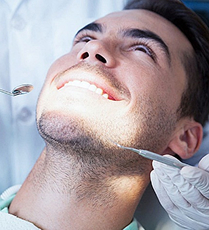
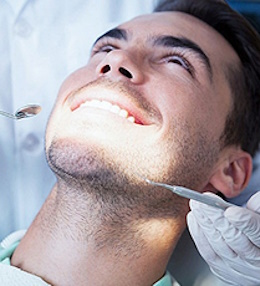
почти закончил под мобилку

diff --git a/index.html b/index.html
@@ -562,30 +562,38 @@
 			  <ul class="useful__list">
 				  <li class="useful__item">
 					  <div class="useful__wrap">
-						    <h3 class="useful__subtitle">
-							    Статьи
-						    </h3>
-						    <div class="useful__viewport">
-								  <ul class="useful__sublist">
-									  <li class="useful__subitem">
-										  <img src="src/img/useful/dental-4-1.jpg" alt="Статья о стоматологии" class="useful__img">
-										  <p class="useful__text">Зуб даю: как сходить к стоматологу и не потерять здоровье</p>
-										  <p class="useful__date">22.03.2026</p>
-									  </li>
-									  <li class="useful__subitem">
-										  <img src="src/img/useful/dental-4-1.jpg" alt="Статья о стоматологии" class="useful__img">
-										  <p class="useful__text">Зуб даю: как сходить к стоматологу и не потерять здоровье</p>
-										  <p class="useful__date">22.03.2026</p>
-									  </li>
-									  <li class="useful__subitem">
-										  <img src="src/img/useful/dental-4-1.jpg" alt="Статья о стоматологии" class="useful__img">
-										  <p class="useful__text">Зуб даю: как сходить к стоматологу и не потерять здоровье</p>
-										  <p class="useful__date">22.03.2026</p>
-									  </li>
-								  </ul>
+						    <div class="useful__slider">
+							    <div class="useful__container">
+								    <ul class="useful__sublist">
+										  <li class="useful__subitem">
+											  <h3 class="useful__subtitle useful__subtitle--red">
+												  Статьи
+											  </h3>
+											  <div class="useful__img-wrap">
+												  <img src="src/img/useful/dental-4-1.jpg" alt="Статья о стоматологии" class="useful__img">
+											  </div>
+											  <p class="useful__text">Зуб даю: как сходить к стоматологу и не потерять здоровье</p>
+											  <p class="useful__date">22.03.2026</p>
+										  </li>
+										  <li class="useful__subitem">
+											  <div class="useful__img-wrap">
+												  <img src="src/img/useful/dental-4-1.jpg" alt="Статья о стоматологии" class="useful__img">
+											  </div>
+											  <p class="useful__text">Зуб даю: как сходить к стоматологу и не потерять здоровье</p>
+											  <p class="useful__date">22.03.2026</p>
+										  </li>
+										  <li class="useful__subitem">
+											  <div class="useful__img-wrap">
+												  <img src="src/img/useful/dental-4-1.jpg" alt="Статья о стоматологии" class="useful__img">
+											  </div>
+											  <p class="useful__text">Зуб даю: как сходить к стоматологу и не потерять здоровье</p>
+											  <p class="useful__date">22.03.2026</p>
+										  </li>
+								    </ul>
+							    </div>
 						    </div>
 						    <button class="useful__btn">
-							    <svg width="14" height="14" viewBox="0 0 14 14" xmlns="http://www.w3.org/2000/svg">
+							    <svg width="24" height="24" viewBox="0 0 14 14" xmlns="http://www.w3.org/2000/svg">
 								    <path d="M7.72917 7L6.05062 5.17271C5.90771 5.02833 5.90771 4.79427 6.05062 4.64917C6.19354 4.50552 6.42615 4.50552 6.56833 4.64917L8.6151 6.7375C8.75802 6.8826 8.75802 7.11667 8.6151 7.26031L6.56833 9.34865C6.42615 9.49375 6.19354 9.49302 6.05062 9.34865C5.90771 9.205 5.90771 8.97094 6.05062 8.82583L7.72917 7ZM7 0C10.866 0 14 3.13396 14 7C14 10.8668 10.866 14 7 14C3.13396 14 0 10.8668 0 7C0 3.13396 3.13396 0 7 0ZM7 13.0915C10.3636 13.0915 13.0915 10.3644 13.0915 7C13.0915 3.63563 10.3636 0.908542 7 0.908542C3.6349 0.908542 0.908542 3.63563 0.908542 7C0.907812 10.3644 3.6349 13.0915 7 13.0915Z" fill="white" fill-opacity="0.7"/>
 							    </svg>
 						    </button>
@@ -593,30 +601,38 @@
 				  </li>
 				  <li class="useful__item">
 					  <div class="useful__wrap">
-						  <h3 class="useful__subtitle">
-							  События
-						  </h3>
-						  <div class="useful__viewport">
-							  <ul class="useful__sublist">
+						  <div class="useful__slider">
+							  <div class="useful__container">
+							    <ul class="useful__sublist">
 								  <li class="useful__subitem">
-									  <img src="src/img/useful/dental-5-1.jpg" alt="Статья о стоматологии" class="useful__img">
+									  <h3 class="useful__subtitle useful__subtitle--green">
+										  События
+									  </h3>
+									  <div class="useful__img-wrap">
+										  <img src="src/img/useful/dental-5-1.jpg" alt="Статья о стоматологии" class="useful__img">
+									  </div>
 									  <p class="useful__text">10 мифов о «разводе» в стоматологии: разоблачения и рекомендации</p>
 									  <p class="useful__date">22.03.2026</p>
 								  </li>
 								  <li class="useful__subitem">
-									  <img src="src/img/useful/dental-5-1.jpg" alt="Статья о стоматологии" class="useful__img">
+									  <div class="useful__img-wrap">
+										  <img src="src/img/useful/dental-5-1.jpg" alt="Статья о стоматологии" class="useful__img">
+									  </div>
 									  <p class="useful__text">10 мифов о «разводе» в стоматологии: разоблачения и рекомендации</p>
 									  <p class="useful__date">22.03.2026</p>
 								  </li>
 								  <li class="useful__subitem">
-									  <img src="src/img/useful/dental-5-1.jpg" alt="Статья о стоматологии" class="useful__img">
+									  <div class="useful__img-wrap">
+										  <img src="src/img/useful/dental-5-1.jpg" alt="Статья о стоматологии" class="useful__img">
+									  </div>
 									  <p class="useful__text">10 мифов о «разводе» в стоматологии: разоблачения и рекомендации</p>
 									  <p class="useful__date">22.03.2026</p>
 								  </li>
 							  </ul>
+							  </div>
 						  </div>
 						  <button class="useful__btn">
-							  <svg width="14" height="14" viewBox="0 0 14 14" xmlns="http://www.w3.org/2000/svg">
+							  <svg width="24" height="24" viewBox="0 0 14 14" xmlns="http://www.w3.org/2000/svg">
 								  <path d="M7.72917 7L6.05062 5.17271C5.90771 5.02833 5.90771 4.79427 6.05062 4.64917C6.19354 4.50552 6.42615 4.50552 6.56833 4.64917L8.6151 6.7375C8.75802 6.8826 8.75802 7.11667 8.6151 7.26031L6.56833 9.34865C6.42615 9.49375 6.19354 9.49302 6.05062 9.34865C5.90771 9.205 5.90771 8.97094 6.05062 8.82583L7.72917 7ZM7 0C10.866 0 14 3.13396 14 7C14 10.8668 10.866 14 7 14C3.13396 14 0 10.8668 0 7C0 3.13396 3.13396 0 7 0ZM7 13.0915C10.3636 13.0915 13.0915 10.3644 13.0915 7C13.0915 3.63563 10.3636 0.908542 7 0.908542C3.6349 0.908542 0.908542 3.63563 0.908542 7C0.907812 10.3644 3.6349 13.0915 7 13.0915Z" fill="white" fill-opacity="0.7"/>
 							  </svg>
 						  </button>
@@ -624,30 +640,38 @@
 				  </li>
 				  <li class="useful__item">
 					  <div class="useful__wrap">
-						  <h3 class="useful__subtitle">
-							  Новости
-						  </h3>
-						  <div class="useful__viewport">
-							  <ul class="useful__sublist">
+						  <div class="useful__slider">
+							  <div class="useful__container">
+							    <ul class="useful__sublist">
 								  <li class="useful__subitem">
-									  <img src="src/img/useful/dental-6-1.jpg" alt="Статья о стоматологии" class="useful__img">
+									  <h3 class="useful__subtitle useful__subtitle--blue">
+										  Новости
+									  </h3>
+									  <div class="useful__img-wrap">
+										  <img src="src/img/useful/dental-6-1.jpg" alt="Статья о стоматологии" class="useful__img">
+									  </div>
 									  <p class="useful__text">Боль в зубе - почему нельзя тянуть с визитом к врачу?</p>
 									  <p class="useful__date">22.03.2026</p>
 								  </li>
 								  <li class="useful__subitem">
-									  <img src="src/img/useful/dental-6-1.jpg" alt="Статья о стоматологии" class="useful__img">
+									  <div class="useful__img-wrap">
+										  <img src="src/img/useful/dental-6-1.jpg" alt="Статья о стоматологии" class="useful__img">
+									  </div>
 									  <p class="useful__text">Боль в зубе - почему нельзя тянуть с визитом к врачу?</p>
 									  <p class="useful__date">22.03.2026</p>
 								  </li>
 								  <li class="useful__subitem">
-									  <img src="src/img/useful/dental-6-1.jpg" alt="Статья о стоматологии" class="useful__img">
+									  <div class="useful__img-wrap">
+										  <img src="src/img/useful/dental-6-1.jpg" alt="Статья о стоматологии" class="useful__img">
+									  </div>
 									  <p class="useful__text">Боль в зубе - почему нельзя тянуть с визитом к врачу?</p>
 									  <p class="useful__date">22.03.2026</p>
 								  </li>
 							  </ul>
+							  </div>
 						  </div>
 						  <button class="useful__btn">
-							  <svg width="14" height="14" viewBox="0 0 14 14" xmlns="http://www.w3.org/2000/svg">
+							  <svg width="24" height="24" viewBox="0 0 14 14" xmlns="http://www.w3.org/2000/svg">
 								  <path d="M7.72917 7L6.05062 5.17271C5.90771 5.02833 5.90771 4.79427 6.05062 4.64917C6.19354 4.50552 6.42615 4.50552 6.56833 4.64917L8.6151 6.7375C8.75802 6.8826 8.75802 7.11667 8.6151 7.26031L6.56833 9.34865C6.42615 9.49375 6.19354 9.49302 6.05062 9.34865C5.90771 9.205 5.90771 8.97094 6.05062 8.82583L7.72917 7ZM7 0C10.866 0 14 3.13396 14 7C14 10.8668 10.866 14 7 14C3.13396 14 0 10.8668 0 7C0 3.13396 3.13396 0 7 0ZM7 13.0915C10.3636 13.0915 13.0915 10.3644 13.0915 7C13.0915 3.63563 10.3636 0.908542 7 0.908542C3.6349 0.908542 0.908542 3.63563 0.908542 7C0.907812 10.3644 3.6349 13.0915 7 13.0915Z" fill="white" fill-opacity="0.7"/>
 							  </svg>
 						  </button>
@@ -710,12 +734,12 @@
 			  </li>
 		  </ul>
 		  <div class="footer__wrap">
-			  <address class="footer__address">
-				  <svg class="footer__svg" width="10" height="16" viewBox="0 0 10 16" xmlns="http://www.w3.org/2000/svg">
-					  <path d="M5 0C2.23828 0 0 2.23828 0 5C0 5.74609 0.164063 6.45509 0.456063 7.08984L4.26466 15.3545C4.44728 15.7519 4.709 16 5 16C5.291 16 5.55275 15.7519 5.73534 15.3555L9.54394 7.08984C9.83691 6.45509 10 5.74609 10 5C10 2.23828 7.76172 0 5 0ZM5 8C3.34375 8 2 6.65625 2 5C2 3.34375 3.34375 2 5 2C6.65625 2 8 3.34375 8 5C8 6.65625 6.65625 8 5 8Z" fill="#009344"/>
-				  </svg>
-				  678170 Россия, г. Мирный, ул. Тихонова д. 7
-			  </address>
+			  <svg class="footer__svg" width="10" height="16" viewBox="0 0 10 16" xmlns="http://www.w3.org/2000/svg">
+				  <path d="M5 0C2.23828 0 0 2.23828 0 5C0 5.74609 0.164063 6.45509 0.456063 7.08984L4.26466 15.3545C4.44728 15.7519 4.709 16 5 16C5.291 16 5.55275 15.7519 5.73534 15.3555L9.54394 7.08984C9.83691 6.45509 10 5.74609 10 5C10 2.23828 7.76172 0 5 0ZM5 8C3.34375 8 2 6.65625 2 5C2 3.34375 3.34375 2 5 2C6.65625 2 8 3.34375 8 5C8 6.65625 6.65625 8 5 8Z" fill="#009344"/>
+			  </svg>
+			  <p class="footer__address">
+				  678170, г. Мирный, ул. Тихонова д. 7
+			  </p>
 		  </div>
 		  <div class="footer__wrap">
 			  <svg class="footer__svg" width="14" height="14" viewBox="0 0 14 14" xmlns="http://www.w3.org/2000/svg">
@@ -723,7 +747,7 @@
 				  <path d="M10.0874 6.93939L11.1624 6.75586C10.9934 5.76826 10.5273 4.87389 9.81936 4.16305C9.07063 3.41434 8.1238 2.9424 7.08082 2.79673L6.92933 3.87755C7.73632 3.99117 8.47048 4.35533 9.05024 4.93507C9.59795 5.48276 9.95629 6.17612 10.0874 6.93939Z" fill="#009344"/>
 				  <path d="M11.7684 2.26652C10.5273 1.02547 8.95701 0.241801 7.22357 0L7.07208 1.08082C8.56954 1.29058 9.92715 1.96937 10.9993 3.03853C12.016 4.05526 12.6832 5.34001 12.925 6.75294L14 6.56941C13.7174 4.93215 12.9454 3.44639 11.7684 2.26652Z" fill="#009344"/>
 			  </svg>
-		    <a href="tel:+74113637850" class="footer__link">+7(41136)3-78-50</a>
+		    <a href="tel:+74113637850" class="footer__link">+7(41136) <span class="footer__span">3-78-50</span> </a>
 		  </div>
 		  <div class="footer__wrap">
 			  <svg class="footer__svg" width="14" height="14" viewBox="0 0 14 14" xmlns="http://www.w3.org/2000/svg">

diff --git a/src/less/blocks/useful.less b/src/less/blocks/useful.less
@@ -21,8 +21,128 @@
 .useful__list {
   list-style-type: none;
 }
-.useful__sublist {
-  display: flex;
+.useful__item {
+  margin-bottom: 30px;
+}
+.useful__wrap {
+  position: relative;
+}
+.useful__slider {
+  position: relative;
+  padding: 0 48px;
+}
+.useful__container {
   overflow: hidden;
+}
+.useful__sublist {
+  width: 100%;
+  max-width: 590px;
+  margin: 0 auto;
+  display: flex;
   list-style-type: none;
+}
+.useful__subitem {
+  width: 100%;
+  max-width: 259px;
+  flex: 0 0 100%;
+}
+.useful__img {
+  display: block;
+  width: 259px;
+  height: 286px;
+  border-radius: 10px;
+}
+.useful__img-wrap {
+  position: relative;
+  margin: 0 auto;
+  width: 259px;
+  height: 286px;
+  
+  &::after {
+    content: "";
+    display: block;
+    height: 150px;
+    position: absolute;
+    bottom: 0;
+    left: 0;
+    right: 0;
+    z-index: 1;
+    background: linear-gradient(180deg, rgba(32, 74, 112, 0) 0%, #204a70 100%);
+    border-radius: 10px;
+    pointer-events: none;
+  }
+}
+.useful__subtitle {
+  padding-top: 3px;
+  border-radius: 0 5px 5px 0;
+  height: 15px;
+  width: 63px;
+  text-align: center;
+  position: absolute;
+  top: 20px;
+  left: 48px;
+  z-index: 2;
+  font-weight: 400;
+  font-size: 10px;
+  line-height: 100%;
+  color: #ffffff;
+}
+.useful__subtitle--red {
+  background: #f00000;
+}
+.useful__subtitle--blue {
+  background: #00579f;
+}
+.useful__subtitle--green {
+  background: #7bb058;
+}
+
+.useful__text {
+  width: 245px;
+  position: absolute;
+  bottom: 40px;
+  left: 60px;
+  z-index: 1;
+  font-weight: 300;
+  font-size: 16px;
+  line-height: 0.88;
+  color: rgba(255, 255, 255, 0.9);
+}
+.useful__date {
+  position: absolute;
+  bottom: 10px;
+  left: 60px;
+  z-index: 1;
+  font-weight: 300;
+  font-size: 12px;
+  line-height: 1;
+  color: rgba(255, 255, 255, 0.7);
+}
+.useful__btn {
+  position: absolute;
+  bottom: 15px;
+  right: 63px;
+  z-index: 3;
+  display: block;
+  width: 20px;
+  height: 20px;
+  border-radius: 100%;
+  background: none;
+  cursor: pointer;
+  border: none;
+}
+.useful__main-btn {
+  display: block;
+  margin: 0 auto;
+  width: 220px;
+  height: 36px;
+  font-weight: 400;
+  font-size: 12px;
+  line-height: 100%;
+  text-align: center;
+  color: #000000;
+  background: none;
+  cursor: pointer;
+  border: 1px solid #009344;
+  border-radius: 20px;
 }

diff --git a/src/less/blocks/footer.less b/src/less/blocks/footer.less
@@ -24,6 +24,7 @@
   color: rgba(153, 153, 153, 0.7);
 }
 .footer__list {
+  margin-bottom: 20px;
   list-style-type: none;
   display: flex;
   justify-content: center;
@@ -31,6 +32,7 @@
   gap: 10px;
 }
 .footer__wrap {
+  padding: 5px 0;
   display: flex;
   justify-content: flex-start;
   align-items: center;
@@ -40,9 +42,15 @@
   display: flex;
   justify-content: flex-start;
   align-items: center;
-  gap: 10px;
+  gap: 20px;
   font-weight: 400;
   font-size: 14px;
+  line-height: 100%;
+  color: #cccccc;
+}
+.footer__span {
+  font-weight: 400;
+  font-size: 16px;
   line-height: 100%;
   color: #cccccc;
 }
@@ -51,8 +59,14 @@
 }
 .footer__link {
   display: block;
+  text-decoration: none;
+  font-weight: 400;
+  font-size: 14px;
+  line-height: 100%;
+  color: #999999;
 }
 .footer__sublist {
+  margin-bottom: 10px;
   list-style-type: none;
   display: flex;
   justify-content: center;
@@ -63,6 +77,9 @@
   display: block;
 }
 .footer__subtitle {
+  padding-top: 10px;
+  margin-bottom: 10px;
+  text-align: center;
   font-weight: 400;
   font-size: 14px;
   line-height: 1;
